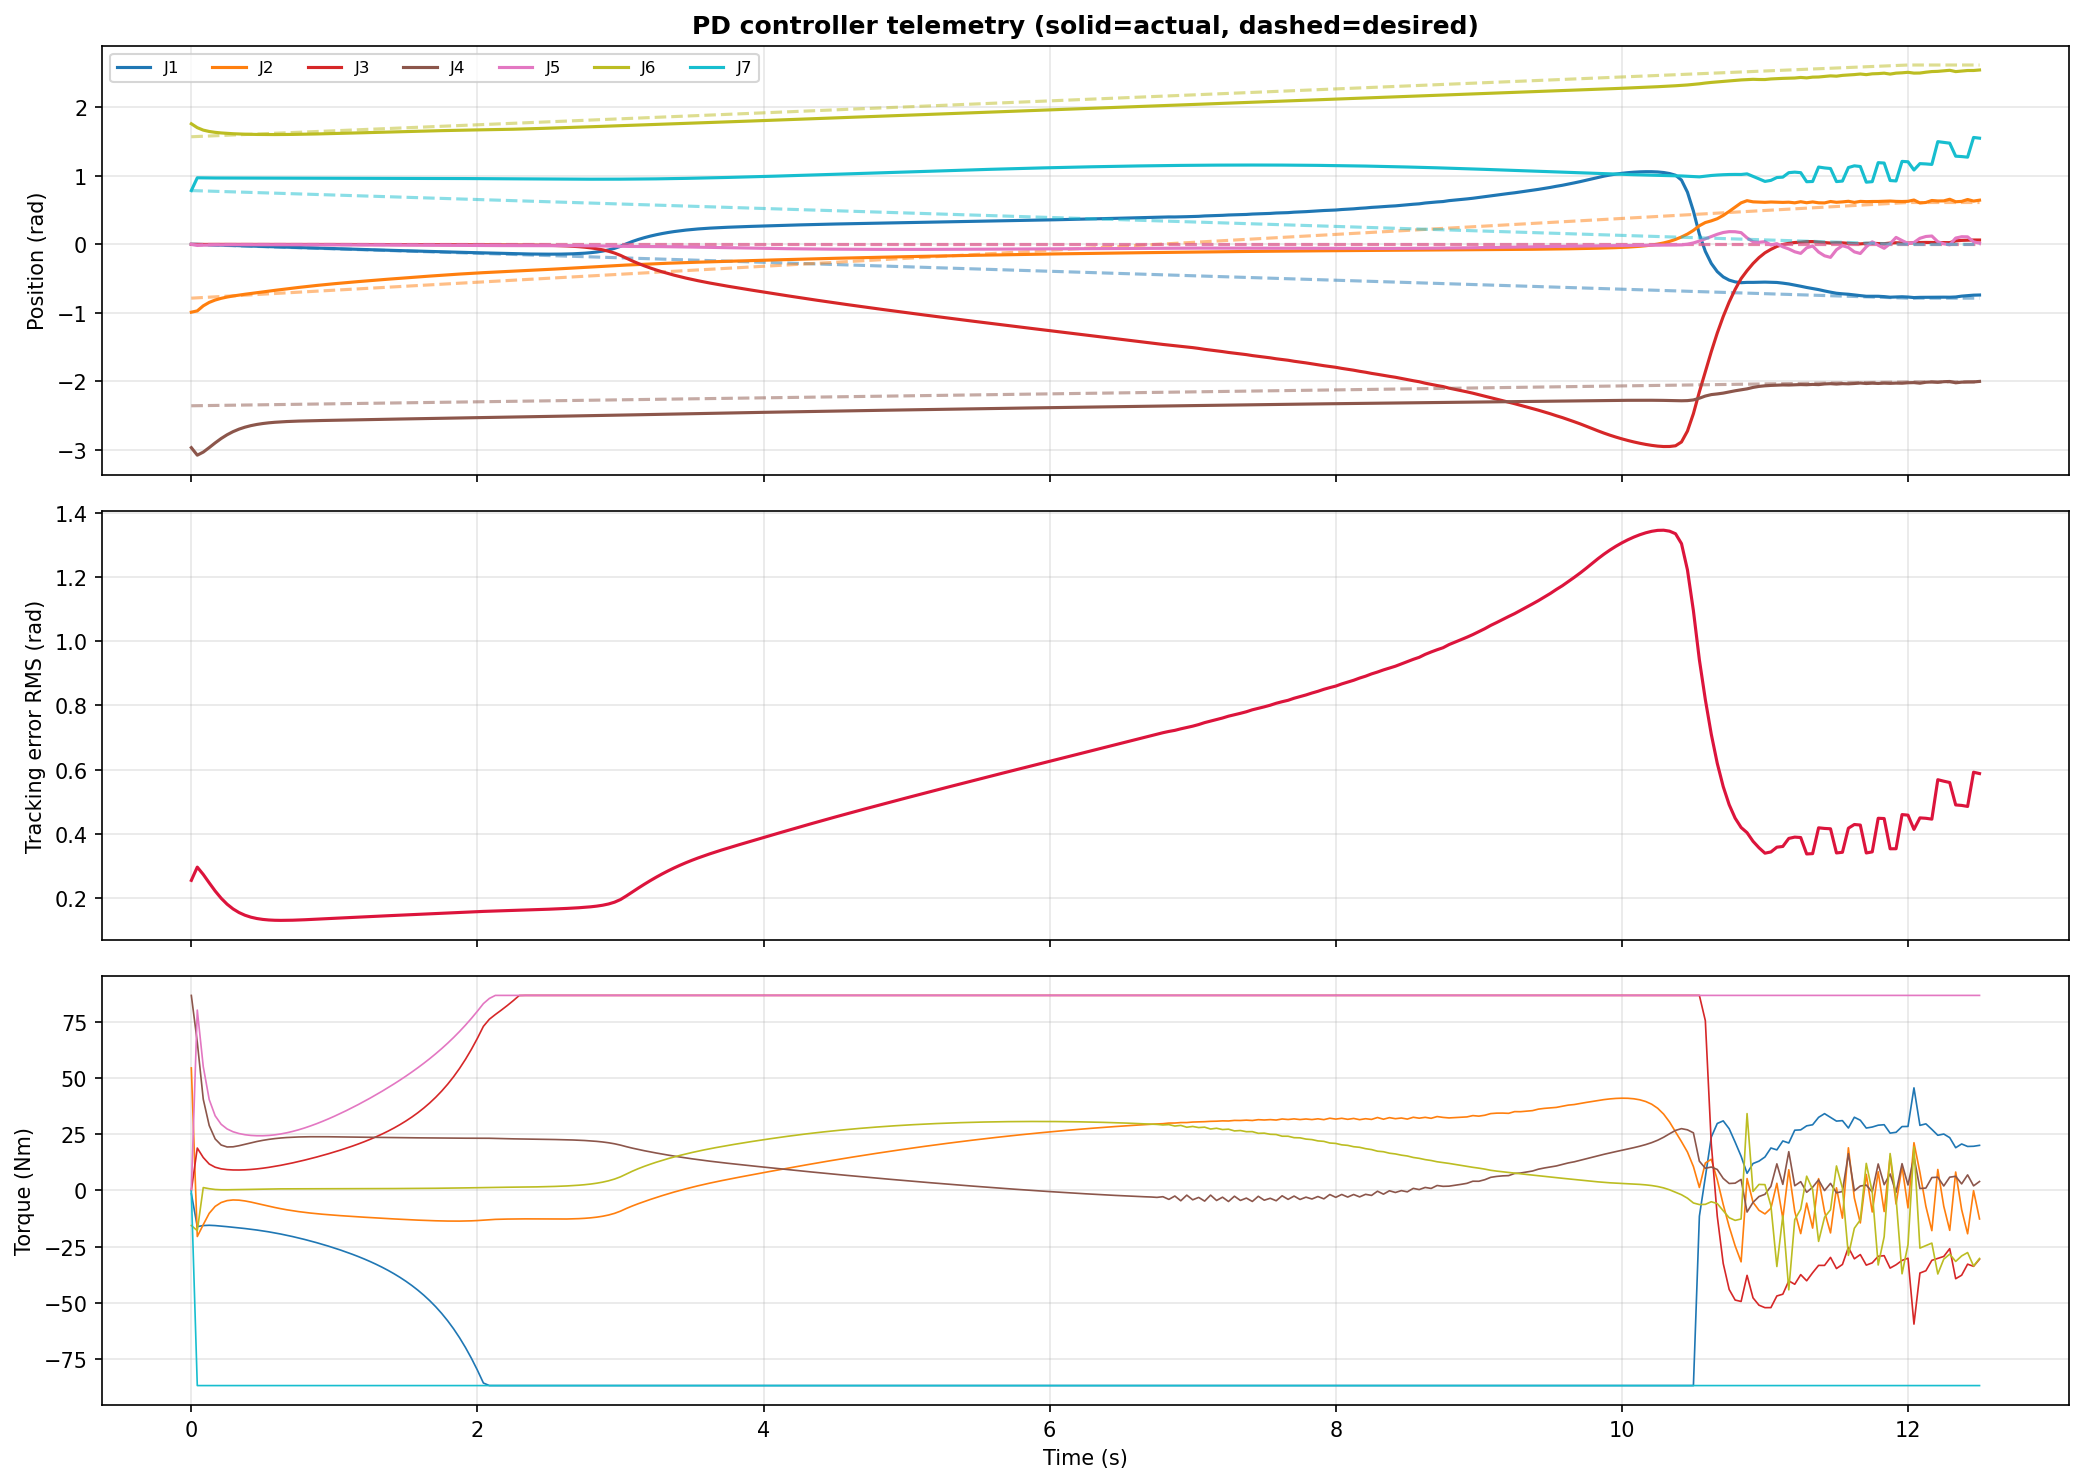
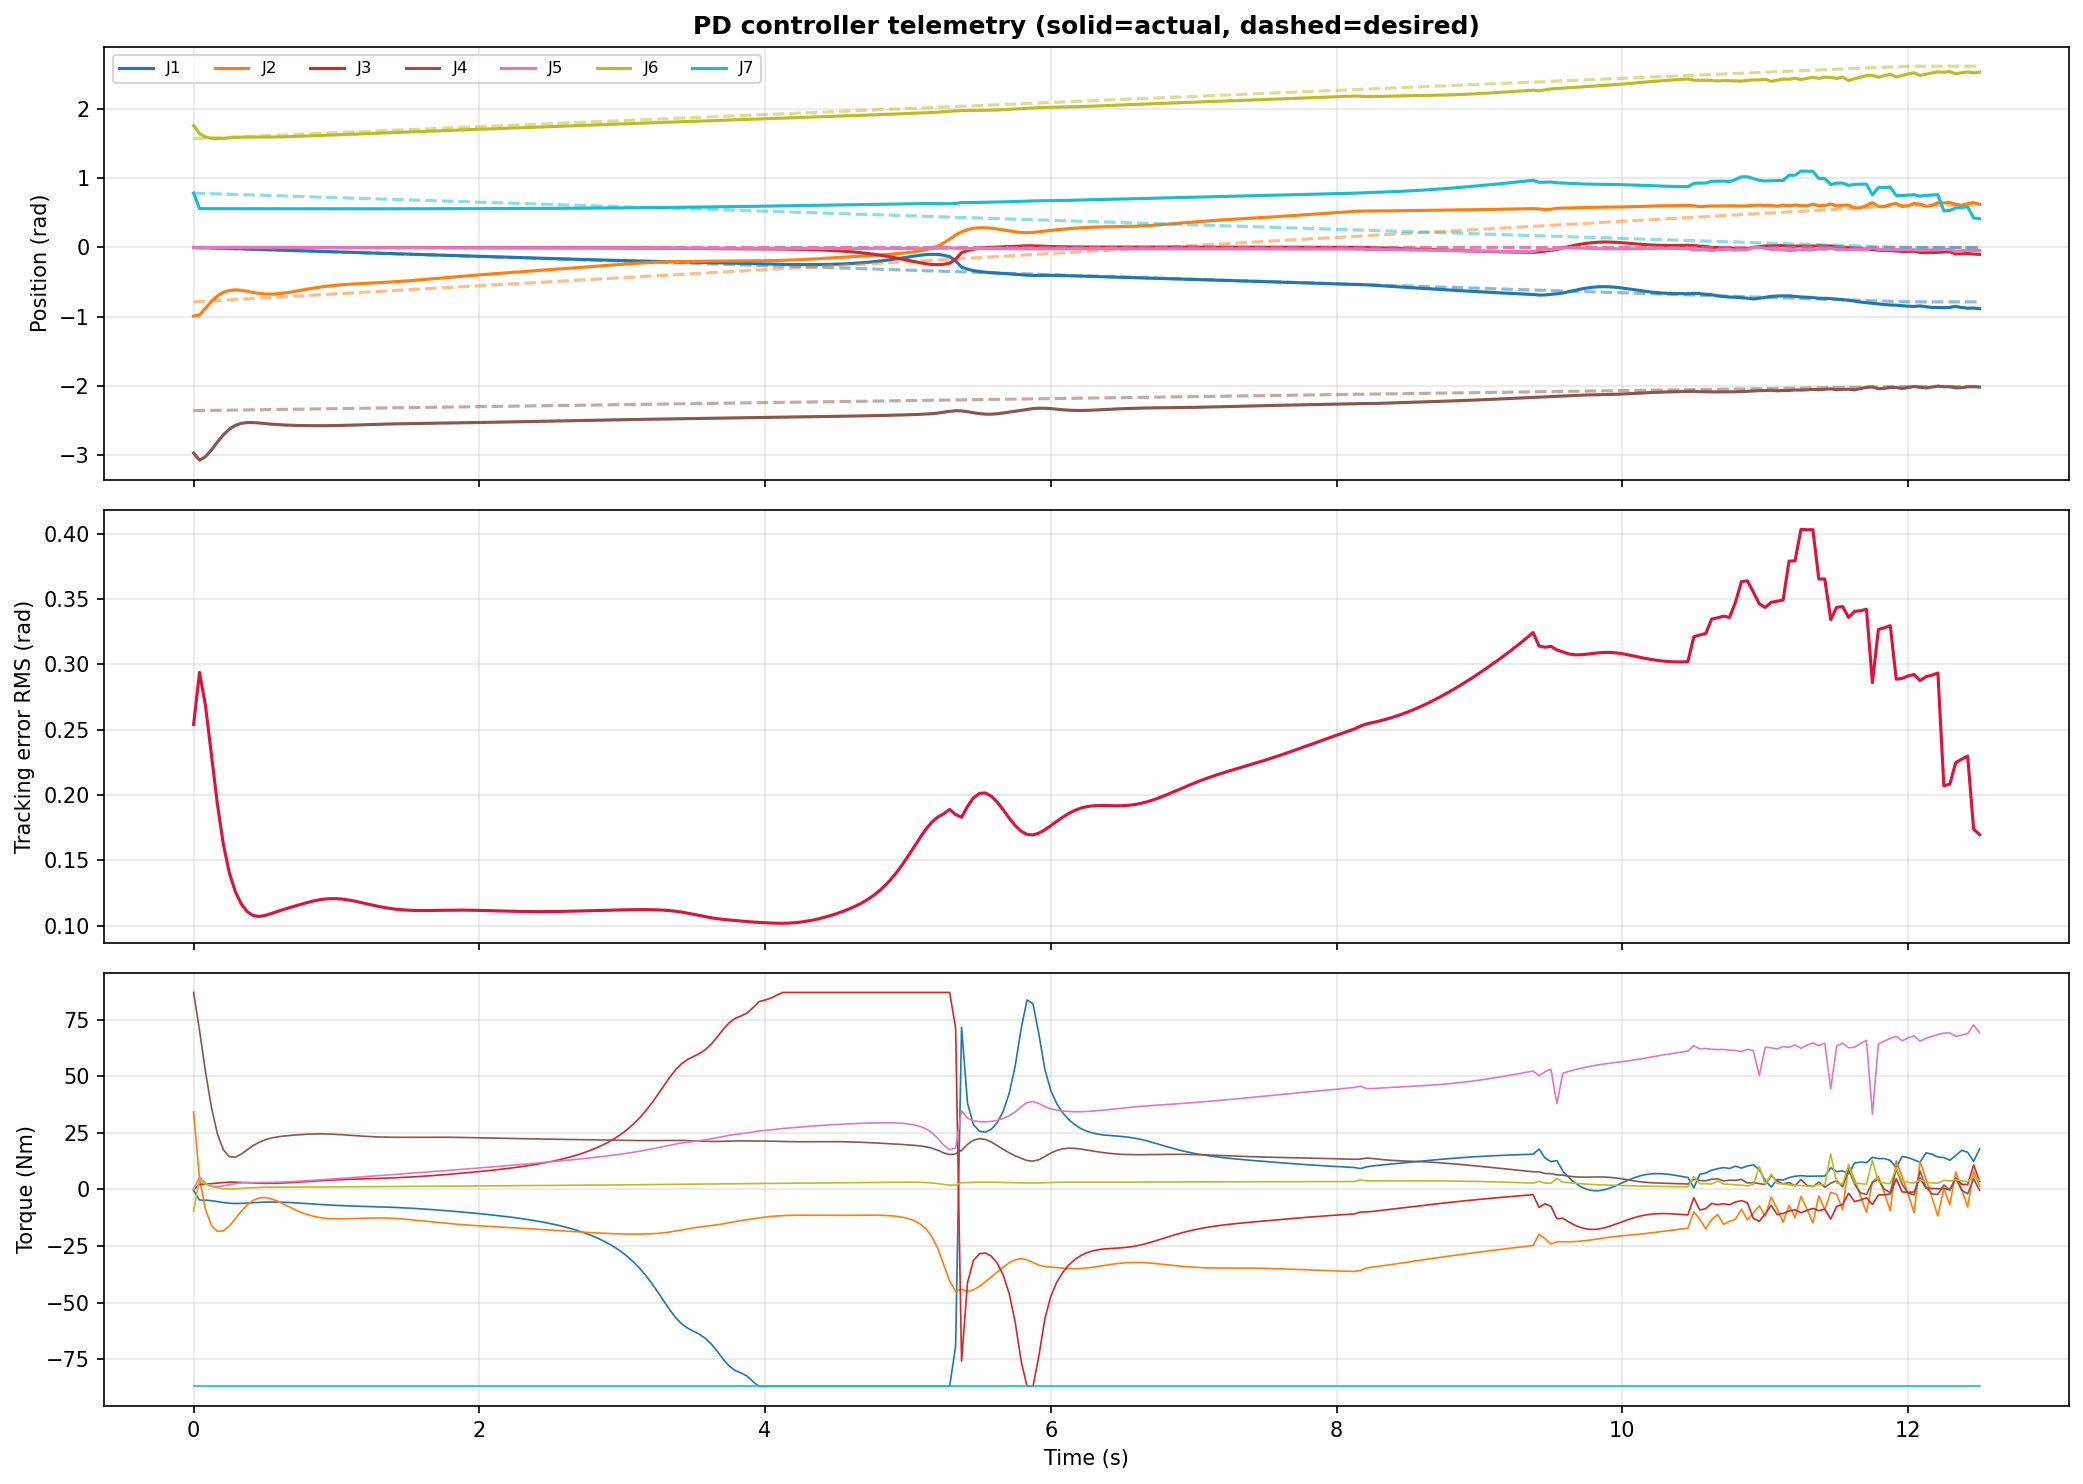
tuned gains

diff --git a/task2_final/config.py b/task2_final/config.py
@@ -135,7 +135,7 @@ MAX_JOINT_ACC       = 3.0           # conservative accel limit (rad/s^2)
 # For Panda in PyBullet, effective reflected inertias are ~0.5-2.0 kg·m².
 # Lower gains = smoother but slower tracking; higher = stiffer but jittery.
 KP_GAINS = np.array([100.0, 100.0, 100.0, 100.0, 50.0, 30.0, 10.0])
-KD_GAINS = np.array([ 20.0,  20.0,  20.0,  20.0, 10.0,  8.0,  4.0])
+KD_GAINS = np.array([ 8.0,  8.0,  8.0,  8.0, 4.0,  3.2,  1.6])
 
 # ─────────────────────────────────────────────
 # Benchmark
